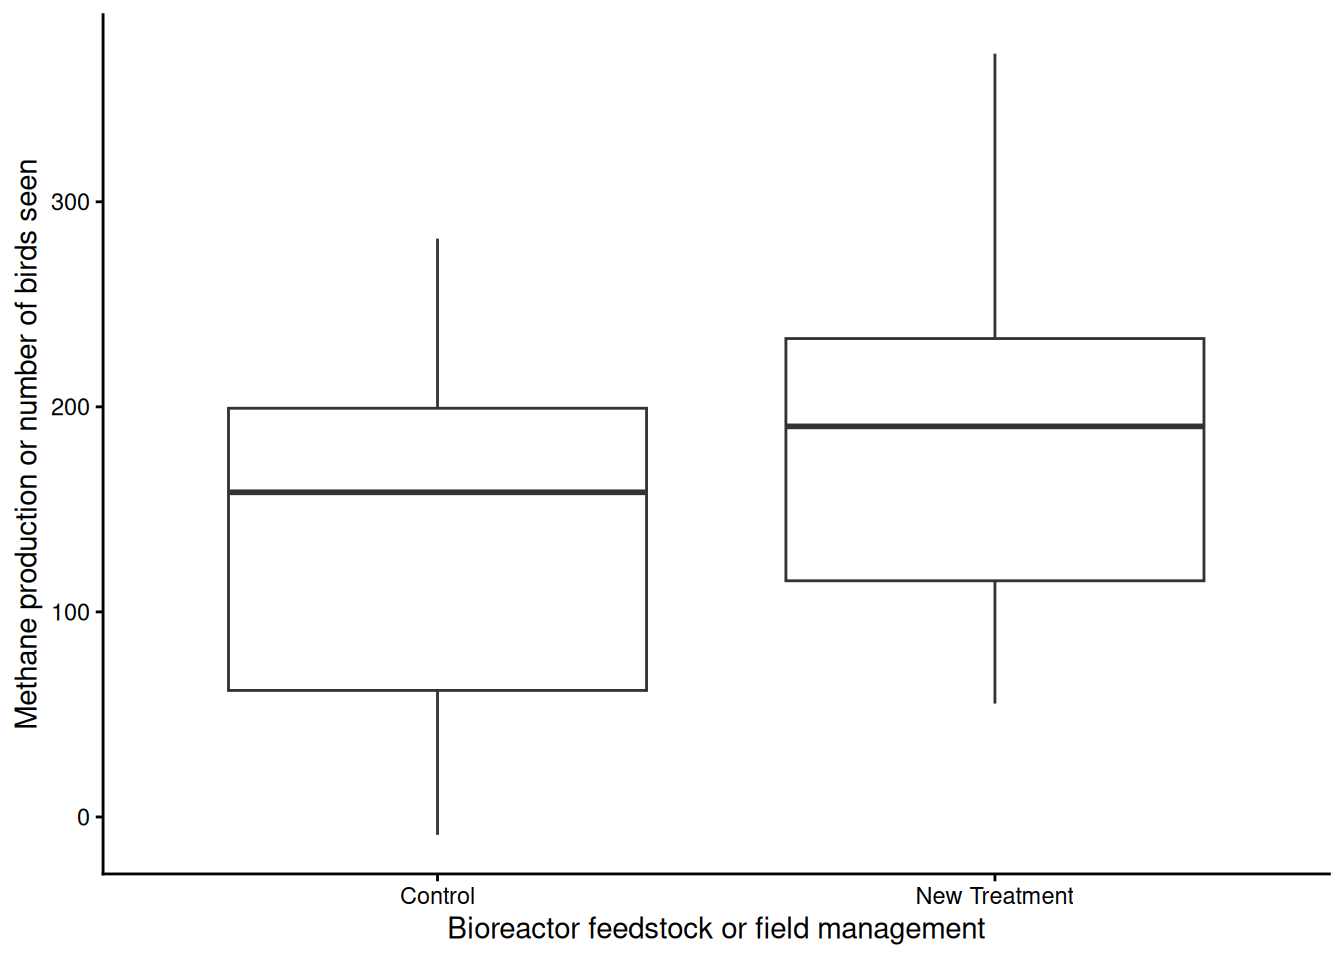
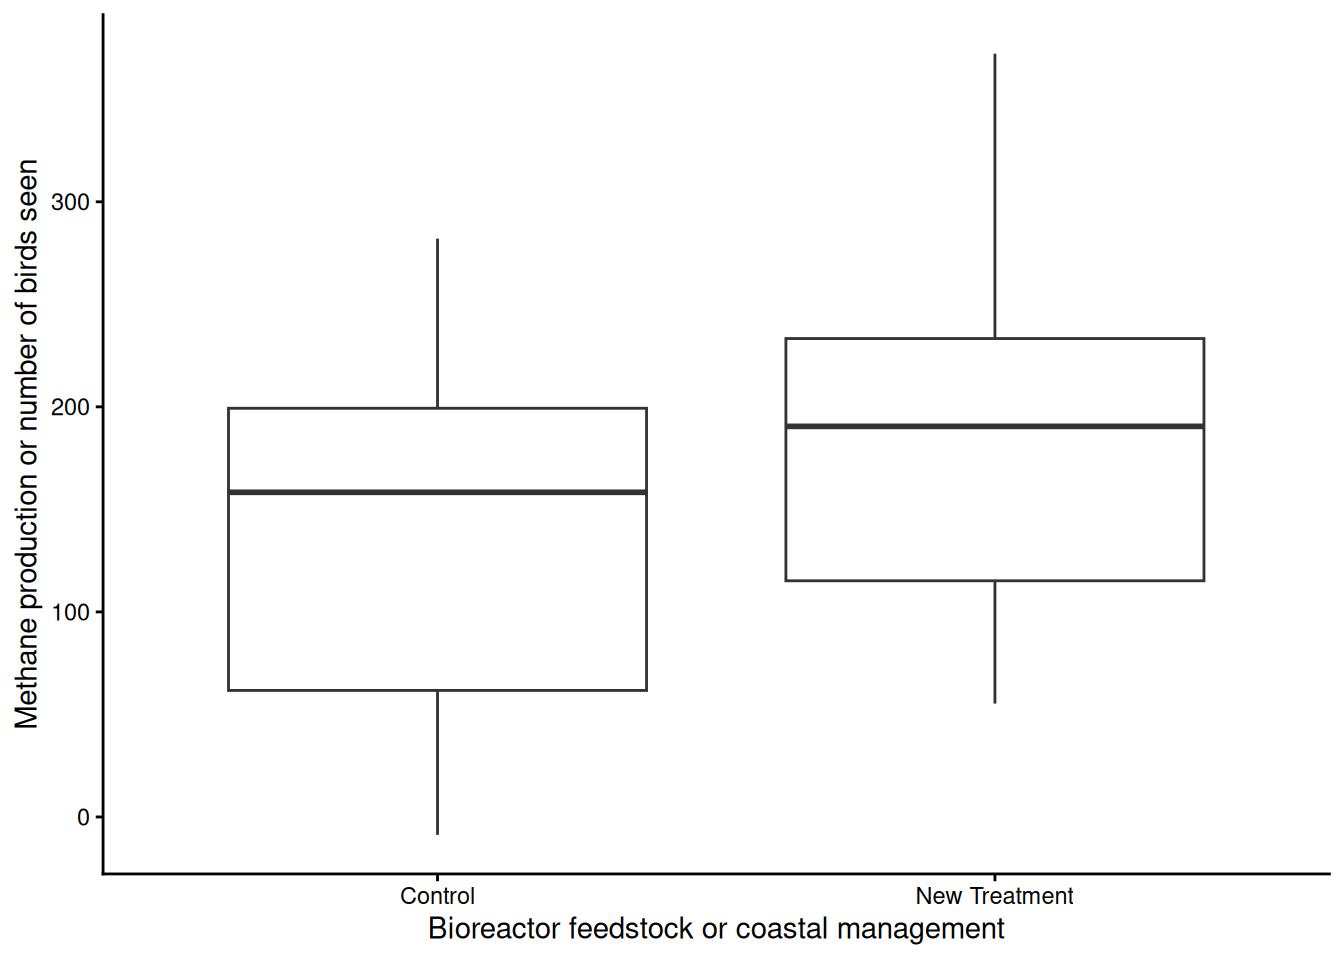
Built site for gh-pages

Changed region(s): [[0.3125, 0.9375, 0.75, 1.0]]

diff --git a/intro.html b/intro.html
@@ -200,8 +200,8 @@ ul.task-list li input[type="checkbox"] {
 
 
 </header><p>This document provides you with the aims and rationale behind the course, explains its mode of delivery, staff roles, and forms of assessment. More importantly, it explains the underlying philosophy used to teach experimental design and statistics, which will probably differ from most that you may have previously encountered, or seen in textbooks. A common approach is to provide students with a plethora of different statistical tests that they may or may not need to apply to their data, depending on how they collected their data, the aims and objectives of their experiment etc. This can be very confusing, resulting in bafflement (that was our experience as undergraduates) with the result that some UG textbooks provide complex flowcharts to help students select the appropriate test.</p>
-<p>A second challenge is the type of software used to undertake statistics. We are just old enough to remember doing some basic statistical tests with a calculator which would take a whole afternoon, even with a relatively small sample size. The arrival of computers to take the tedium out of this was a great relief. Most software commonly used for statistics, such as Microsoft Excel, Minitab and SPSS are menu-driven, making it easy to get started with data analysis and graph display. However, whilst their learning curve is initially very shallow, it soon becomes steep. Biological data is inherently complex, and often the more advanced analyses or data visualisations are difficult or impossible to undertake. An additional problem is that you have no record of what you have done. You will be taking this course in October to December of your Stage 2, but many of the skills you will learn will not be practiced in full until you are doing Stage 3 courses and projects. If you do not need to do much statistics after completing this NES2303 course, will you remember what you need in 18 months’ time for your Final Year Project or other experiments/surveys? If you have menu-driven software, it is easy to learn, but easy to forget. In contrast, we will use a coding language that is now common in Biology and Zoology, called R. It is (slightly) harder to learn than menu-driven software, but you don’t forget it, even 12 months later! Many careers in biology and zoology, both laboratory and field-based, expect applicants to know how to use R. We have therefore developed this course to give you the best employability skills for your CV as well.</p>
-<p>Finally, this is the third year in which we have taught on this course and it is updated each year to try and improve it based on your feedback. There is an initial “Session 0” revision computer class to help you configure and ‘navigate’ the software we’ll use. This will hopefully ensure that in the subsequent practicals you can focus on data science for biologists and zoologists, and not worry about IT. Passive learning in lectures is not particularly useful for quantitative biologists and zoologists like yourselves, and hands-on experience is more useful, so additional practicals are always valuable. You can start practicals in your own time if you wish, especially given so many are in 16:00-18:00 slots. If you find yourself making excellent progress, do not feel obliged to attend every practical; however repeating some exercises will embed your knowledge. Also <strong>understanding</strong> is key: getting the ‘right’ answer from an analysis is <strong>not</strong> sufficient. You need to know how to interpret its biological meaning.</p>
+<p>A second challenge is the type of software used to undertake statistics. We are just old enough to remember doing some basic statistical tests with a calculator which would take a whole afternoon, even with a relatively small sample size. The arrival of computers to take the tedium out of this was a great relief. Most software commonly used for statistics, such as Microsoft Excel, Minitab and SPSS are menu-driven, making it easy to get started with data analysis and graph display. However, whilst their learning curve is initially very shallow, it soon becomes steep. Biological data is inherently complex, and often the more advanced analyses or data visualisations are difficult or impossible to undertake. An additional problem is that you have no record of what you have done. You will be taking this course in October to December of your Stage 2, but many of the skills you will learn will not be practiced in full until you are doing Stage 3 courses and projects. If you do not need to do much statistics after completing this NES2504 course, will you remember what you need in 18 months’ time for your Final Year Project or other experiments/surveys? If you have menu-driven software, it is easy to learn, but easy to forget. In contrast, we will use a coding language that is now common in Biology, Zoology and Marine Science, called R. It is (slightly) harder to learn than menu-driven software, but you don’t forget it, even 12 months later! Many careers in biology and zoology, both laboratory and field-based, expect applicants to know how to use R. We have therefore developed this course to give you the best employability skills for your CV as well.</p>
+<p>Finally, this is the third year in which we have taught on this course and it is updated each year to try and improve it based on your feedback. There is an initial “Session 0” revision computer class to help you configure and ‘navigate’ the software we’ll use. This will hopefully ensure that in the subsequent practicals you can focus on data science for biologists and zoologists, and not worry about IT. Passive learning in lectures is not particularly useful for quantitative biologists and zoologists like yourselves, and hands-on experience is more useful, so additional practicals are always valuable. You can start practicals in your own time if you wish. If you find yourself making excellent progress, do not feel obliged to attend every practical; however repeating some exercises will embed your knowledge. Also <strong>understanding</strong> is key: getting the ‘right’ answer from an analysis is <strong>not</strong> sufficient. You need to know how to interpret its biological meaning.</p>
 <p>Please provide feedback (positive or negative) as you progress through the Data Analysis course either directly to Roy Sanderson and Will Reid, or to your student representatives for the Marine Biology, Marine Zoology, Biology and Zoology degree programmes.</p>
 
 

diff --git a/signal_noise.html b/signal_noise.html
@@ -215,7 +215,7 @@ ul.task-list li input[type="checkbox"] {
 <li>
 <strong>Laboratory example</strong> You’ve just done a laboratory experiment into cell growth for a bioreactor. Your response is methane production and you have one explanatory variable with two ‘levels’, a conventional feedstock (control), and a new bioreactor feedstock;</li>
 <li>
-<strong>Field example</strong> You’ve just done a field survey of birds. Your response is the number of birds seen in a given area, and you have one explanatory variable with two ‘levels’, a conventional habitat management (control), and a new wildflower management technique.</li>
+<strong>Field example</strong> You’ve just done a survey of ground-nesting seabirds. Your response is the number of birds seen in a given area, and you have one explanatory variable with two ‘levels’, a conventional coastal management (control), and a scheme to exclude dog-walkers.</li>
 </ul>
 <p>For both examples you can visualise the data using a “boxplot” which shows the median, interquartile range, and outliers. The boxplot is a good way to visualise the data because it shows the distribution of the data, and allows you to see if there are any outliers. In the boxplot below the horizontal (x) axis shows the explanatory variable (bioreactor feedstock or field management), and the vertical (y) axis shows the response variable (methane production or number of birds seen).</p>
 <div class="cell" data-layout-align="center">
@@ -226,7 +226,7 @@ ul.task-list li input[type="checkbox"] {
 </div>
 </div>
 </div>
-<p>Well that looks fairly obvious: your new bioreactor feedstock or wildflower field management treatment is having the positive effect you hoped for. The median, shown by the horizontal line in each box, is roughly 150 for the control, and roughly 170 for your new treatment. Yes, there is a bit of noise in the data, but the differences are still clear. You can think of this example as:</p>
+<p>Well that looks fairly obvious: your new bioreactor feedstock or coastal management treatment is having the positive effect you hoped for. The median, shown by the horizontal line in each box, is roughly 150 for the control, and roughly 170 for your new treatment. Yes, there is a bit of noise in the data, but the differences are still clear. You can think of this example as:</p>
 <div class="center">
 <p><span class="boxed">Methane or birds</span> = <span class="bigger-boxed">Treatment</span> + <span class="boxed">noise</span></p>
 </div>
@@ -246,8 +246,8 @@ ul.task-list li input[type="checkbox"] {
 <div class="center">
 <p><span class="boxed">Methane or birds</span> = <span class="bigger-boxed">Treatment</span> + <span class="bigger-boxed">noise</span></p>
 </div>
-<p>Whilst the <strong>signal</strong> from your treatment (feedstock type or field management) still has a big box, the random <strong>noise</strong> has become much worse, making it harder to understand. Thus, whilst a visual assessment of your data is useful when you have clear differences, you need more powerful methods when the data are noisy. These formal methods of data analysis are what you’ll learn in this module, and they’ll allow you to determine whether the differences you see in your data are statistically significant, or whether they could have occurred by chance. Most of these methods work by assessing the <strong>signal to noise ratio</strong> in your data, to help you decide if the differences are real. In this second example, the signal to noise ratio is much smaller, meaning that the differences you see could be due to random variation rather than a real effect of your treatment.</p>
-<p>I’ve used an example here with a categorical explanatory variable (feedstock or field management), but the same principles apply to continuous explanatory variables, such as temperature or time. The key point is that you need to assess the signal to noise ratio in your data to determine whether the differences you see are real or just due to random variation.</p>
+<p>Whilst the <strong>signal</strong> from your treatment (feedstock type or coastal management) still has a big box, the random <strong>noise</strong> has become much worse, making it harder to understand. Thus, whilst a visual assessment of your data is useful when you have clear differences, you need more powerful methods when the data are noisy. These formal methods of data analysis are what you’ll learn in this module, and they’ll allow you to determine whether the differences you see in your data are statistically significant, or whether they could have occurred by chance. Most of these methods work by assessing the <strong>signal to noise ratio</strong> in your data, to help you decide if the differences are real. In this second example, the signal to noise ratio is much smaller, meaning that the differences you see could be due to random variation rather than a real effect of your treatment.</p>
+<p>I’ve used an example here with a categorical explanatory variable (feedstock or coastal management), but the same principles apply to continuous explanatory variables, such as temperature or time. The key point is that you need to assess the signal to noise ratio in your data to determine whether the differences you see are real or just due to random variation.</p>
 
 
 </section></main><!-- /main --><script id="quarto-html-after-body" type="application/javascript">

diff --git a/structure.html b/structure.html
@@ -241,7 +241,7 @@ ul.task-list li input[type="checkbox"] {
 <p>Teaching staff and many demonstrators will be from the Modelling Evidence and Policy Research Group (MEP) <a href="https://www.ncl.ac.uk/nes/our-research/biology/modelling-evidence-policy/" class="uri">https://www.ncl.ac.uk/nes/our-research/biology/modelling-evidence-policy/</a> within SNES. The group includes Biologists, Marine Scientists and Zoologists working in many different fields, from microbiology through to field zoology, but all these areas require solid data analysis and interpretation. The formative and summative tests will be hosted on the Canvas Virtual Learning Environment, but will require you to analyse and interpret data separately. The tests will take the form of short-answer / multiple choice / numeric answers.</p>
 <section id="lecture-structure" class="level2" data-number="5.1">
 <h2 data-number="5.1" class="anchored" data-anchor-id="lecture-structure"><span class="header-section-number">5.1</span> Lecture structure</h2>
-<p>An Introductory lecture from Roy Sanderson first week of teaching to outline the Data Analysis component within the module as a whole and answer any initial queries from students.</p>
+<p>There is an Introductory Lecture in the first week of teaching to outline the Data Analysis component within the module as a whole and answer any initial queries from students.</p>
 </section>
 <section id="interactive-websites" class="level2" data-number="5.2">
 <h2 data-number="5.2" class="anchored" data-anchor-id="interactive-websites"><span class="header-section-number">5.2</span> Interactive websites</h2>
@@ -249,7 +249,7 @@ ul.task-list li input[type="checkbox"] {
 </section>
 <section id="computer-classes" class="level2" data-number="5.3">
 <h2 data-number="5.3" class="anchored" data-anchor-id="computer-classes"><span class="header-section-number">5.3</span> Computer classes</h2>
-<p>These are scheduled for five weeks. You have been split into <strong>two groups</strong> of students so <strong>check your timetable</strong>. Most of you (c.&nbsp;115 students) will be with Roy Sanderson in Herschel Building, the remainder (c.&nbsp;85 students) with Will Reid in Dame Barbour Building. <strong>NOTE</strong> Unfortunately majority of Herschel classes are timetabled 16:00-18:00 which is poor for students commuting, who have caring responsibilities, part-time jobs etc. Feel free to start your computer practicals in your own time if this might be a problem.</p>
+<p>These are scheduled for five weeks. You have been split into <strong>two groups</strong> of students so <strong>check your timetable</strong>. Most of you (c.&nbsp;115 students) will be with Roy Sanderson in Dame Margaret Barbour Building, Stephenson Building or Herschel Building; the remainder (c.&nbsp;85 students) with Will Reid in Dame Margaret Barbour Building. <strong>NOTE</strong> Please check your personal timetable carefully as session day of week and times vary from week-to-week.</p>
 </section>
 <section id="ten-minute-videos-tmv" class="level2" data-number="5.4">
 <h2 data-number="5.4" class="anchored" data-anchor-id="ten-minute-videos-tmv"><span class="header-section-number">5.4</span> Ten-minute videos (TMV)</h2>
